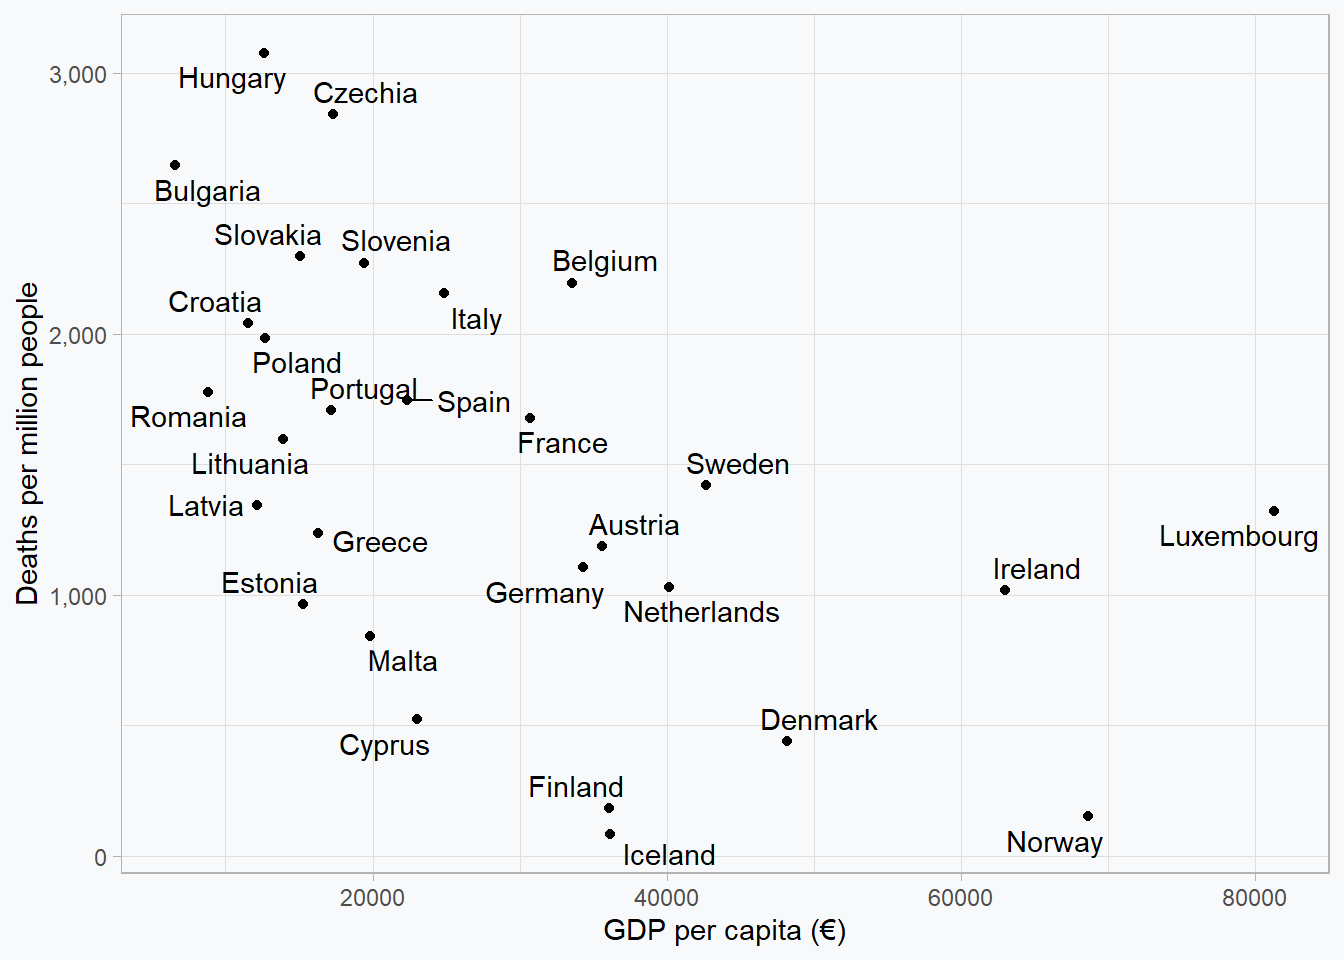
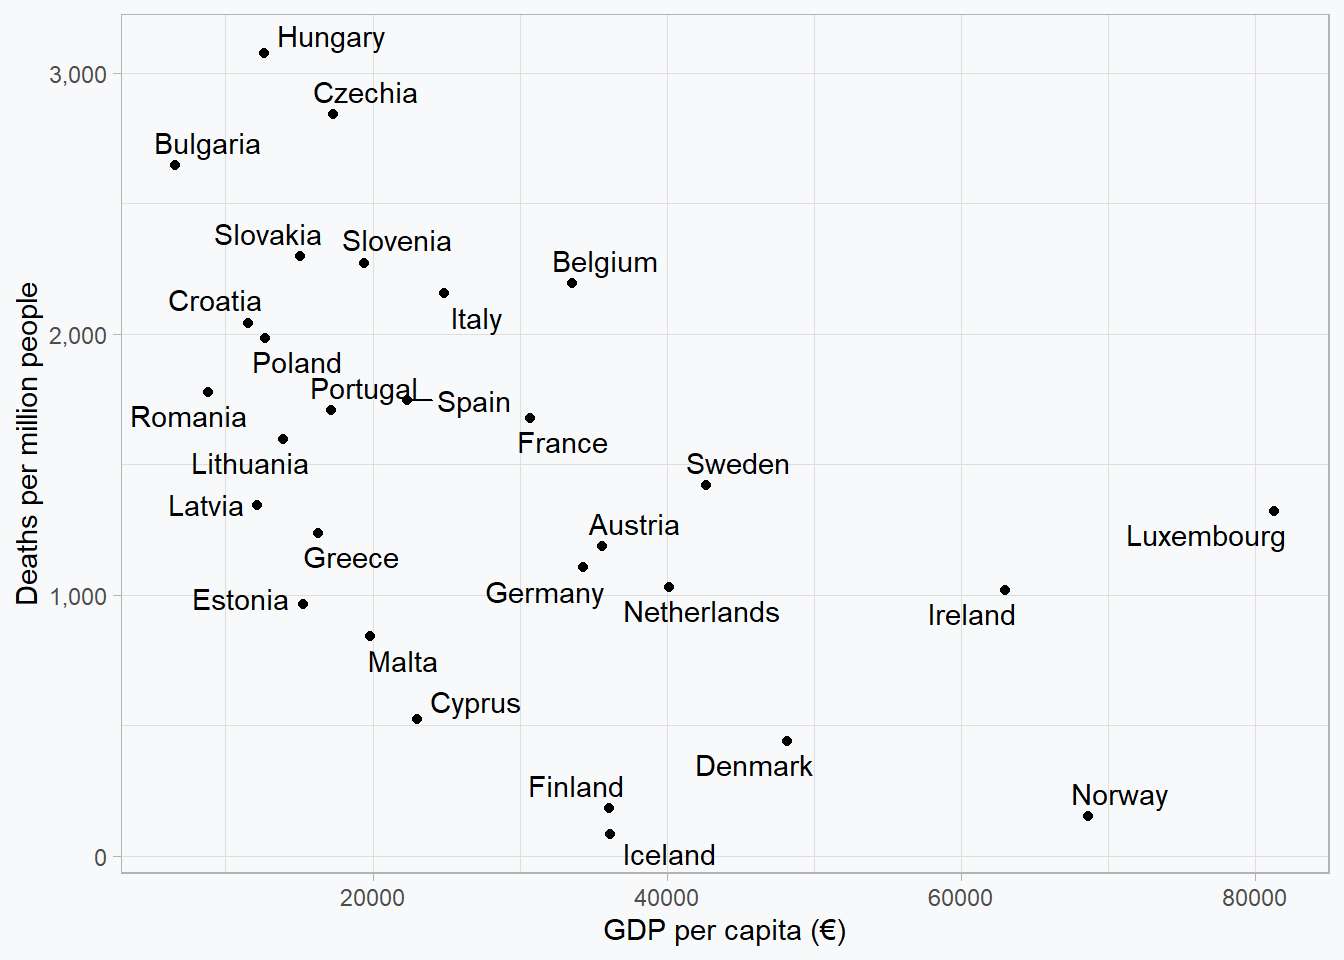
Covid analysis lm

diff --git a/content/project/internal-project/index.html b/content/project/internal-project/index.html
@@ -401,7 +401,8 @@ z &lt;- ggplot(data = q, mapping = aes(x = deaths, y = countries)) +
   scale_x_continuous(name = &quot;Cumulative deaths&quot;, labels = comma)
 
 z</code></pre>
-<p><img src="{{< blogdown/postref >}}index_files/figure-html/unnamed-chunk-3-1.png" width="672" /></p>
+<p><img src="{{< blogdown/postref >}}index_files/figure-html/unnamed-chunk-3-1.png" width="672" />
+ </p>
 </div>
 <div id="deaths-per-million-inhabitants" class="section level2">
 <h2>Deaths per million inhabitants</h2>
@@ -430,7 +431,8 @@ z &lt;- ggplot(data = q, mapping = aes(x = deaths_pm, y = countries)) +
 
 #show the plot
 z</code></pre>
-<p><img src="{{< blogdown/postref >}}index_files/figure-html/unnamed-chunk-4-1.png" width="672" /></p>
+<p><img src="{{< blogdown/postref >}}index_files/figure-html/unnamed-chunk-4-1.png" width="672" />
+ </p>
 </div>
 <div id="deaths-per-million-people-as-a-function-of-per-capita-gdp" class="section level2">
 <h2>Deaths per million people as a function of per capita GDP</h2>
@@ -459,7 +461,92 @@ t = ggplot(data = q, mapping = aes(x = gdp_pp, y = deaths_pm)) +
   theme(panel.background = element_rect(fill = &quot;#F8F9FA&quot;, colour = &quot;#F8F9FA&quot;), plot.background = element_rect(fill = &quot;#F8F9FA&quot;, colour = &quot;#F8F9FA&quot;))
 
 t </code></pre>
-<p><img src="{{< blogdown/postref >}}index_files/figure-html/unnamed-chunk-5-1.png" width="672" /></p>
-<p>Thank you for having a look at this page. I’ll probably be adding to this analysis in the near future.</p>
+<p><img src="{{< blogdown/postref >}}index_files/figure-html/unnamed-chunk-5-1.png" width="672" />
+ </p>
+</div>
+<div id="linear-regression" class="section level2">
+<h2>Linear regression</h2>
+<p>Now it seems the right time to check for a linear relationship between deaths and GDP. A preliminary analysis has shown that removing the countries with a population smaller than one million from the data set improves the p-values of the regression method.</p>
+<p>In the next bit of analysis, first I identify and remove these countries from the data set. Then, I perform the linear regression on the new data set.</p>
+<pre class="r"><code>library(tidyverse)
+library(kableExtra)
+library(scales)
+library(ggrepel)
+
+data &lt;- read.csv(&quot;covid-data.csv&quot;)
+gdp_data &lt;- read.csv(&quot;gdp-europe.csv&quot;)
+merged_data &lt;- merge(data, gdp_data, by = &quot;countries&quot;)
+
+#countries with a population size smaller than one million
+c_one_m &lt;- unique(merged_data[which(merged_data$population &lt; 1000000), ]$countries)
+c_one_m &lt;- paste(c_one_m, collapse = &quot;, &quot;)
+print(paste(&quot; The countries with a population size less than one million are&quot;, c_one_m, sep = &quot; &quot;))</code></pre>
+<pre><code>## [1] &quot; The countries with a population size less than one million are Cyprus, Iceland, Luxembourg, Malta&quot;</code></pre>
+<pre class="r"><code>#new data set with only countries with a population size over one million
+merged_data &lt;- merged_data[(merged_data$population &gt; 1000000), ]
+
+#create a table 
+q &lt;- merged_data %&gt;% 
+  group_by(countries,gdp_pp,population) %&gt;% 
+  summarize(deaths = sum(deaths))
+
+#new table with added column &quot;deaths per million people&quot;
+q &lt;- tibble(countries = q$countries, gdp_pp = q$gdp_pp, deaths_pm = q$deaths/q$population*1000000)
+
+# create plot
+t &lt;- ggplot(data = q, mapping = aes(x = gdp_pp, y = deaths_pm)) +
+  geom_point() + 
+  geom_text_repel(aes(label=countries)) +
+  theme_light() +
+  scale_x_continuous(name = &quot;GDP per capita (€)&quot;) +
+  scale_y_continuous(name = &quot;Deaths per million people&quot;, labels = comma) +
+  theme(panel.background = element_rect(fill = &quot;#F8F9FA&quot;, colour = &quot;#F8F9FA&quot;), plot.background = element_rect(fill = &quot;#F8F9FA&quot;, colour = &quot;#F8F9FA&quot;))
+
+
+#add to the graph the line of best fit derived from the linear regression
+u &lt;- t +
+  geom_smooth(method=&#39;lm&#39;, formula= y~x, se = FALSE)
+
+u</code></pre>
+<p><img src="{{< blogdown/postref >}}index_files/figure-html/unnamed-chunk-6-1.png" width="672" /></p>
+<pre class="r"><code>#perform linear regression
+m &lt;- lm(deaths_pm ~ gdp_pp, # How does deaths_pm depend on (~) gdp_pp
+        data = q) # Look in &quot;q&quot; for the variables
+
+# print summary of linear regression
+print(summary(m))</code></pre>
+<pre><code>## 
+## Call:
+## lm(formula = deaths_pm ~ gdp_pp, data = q)
+## 
+## Residuals:
+##      Min       1Q   Median       3Q      Max 
+## -1123.16  -366.32   -40.15   435.28  1050.08 
+## 
+## Coefficients:
+##               Estimate Std. Error t value Pr(&gt;|t|)    
+## (Intercept)  2.414e+03  2.212e+02  10.913 1.43e-10 ***
+## gdp_pp      -3.073e-02  7.143e-03  -4.303 0.000265 ***
+## ---
+## Signif. codes:  0 &#39;***&#39; 0.001 &#39;**&#39; 0.01 &#39;*&#39; 0.05 &#39;.&#39; 0.1 &#39; &#39; 1
+## 
+## Residual standard error: 580.7 on 23 degrees of freedom
+## Multiple R-squared:  0.446,  Adjusted R-squared:  0.4219 
+## F-statistic: 18.51 on 1 and 23 DF,  p-value: 0.0002648</code></pre>
+<p> </p>
+</div>
+<div id="comments-on-the-linear-regression" class="section level2">
+<h2>Comments on the linear regression</h2>
+<p>The linear regression analysis tells us a few things. First, the line of best has the following equation:</p>
+<p><span class="math display">\[  y = 2.414 \cdot 10^3 - 3.073 \cdot 10^2 \cdot x \]</span></p>
+<ul>
+<li><p>The variable <span class="math inline">\(x\)</span> stands for GDP per capita, while <span class="math inline">\(y\)</span> stands for deaths per million people. The <span class="math inline">\(x\)</span> coefficient tells us that for an increase in €10,000 of per-capita GDP, deaths are expected to reduce by 307 people.</p></li>
+<li><p>The evidence for accepting this relationship is given by the very small p-value given for gdp_pp as evidenced in the linear regression summary statistics. The p-value is equal to 0.000265. In more technical terms, this means that we can confidently reject the null-hypothesis.</p></li>
+</ul>
+</div>
+<div id="the-end" class="section level2">
+<h2>The end</h2>
+<p>This analysis shows a strong relationship between the wealth of a country and its ability to protect its people from Covid-19.</p>
+<p>Finally, thank you for having a look at this page. I’ll probably be adding to this analysis in the near future.</p>
 </div>
 </div>
